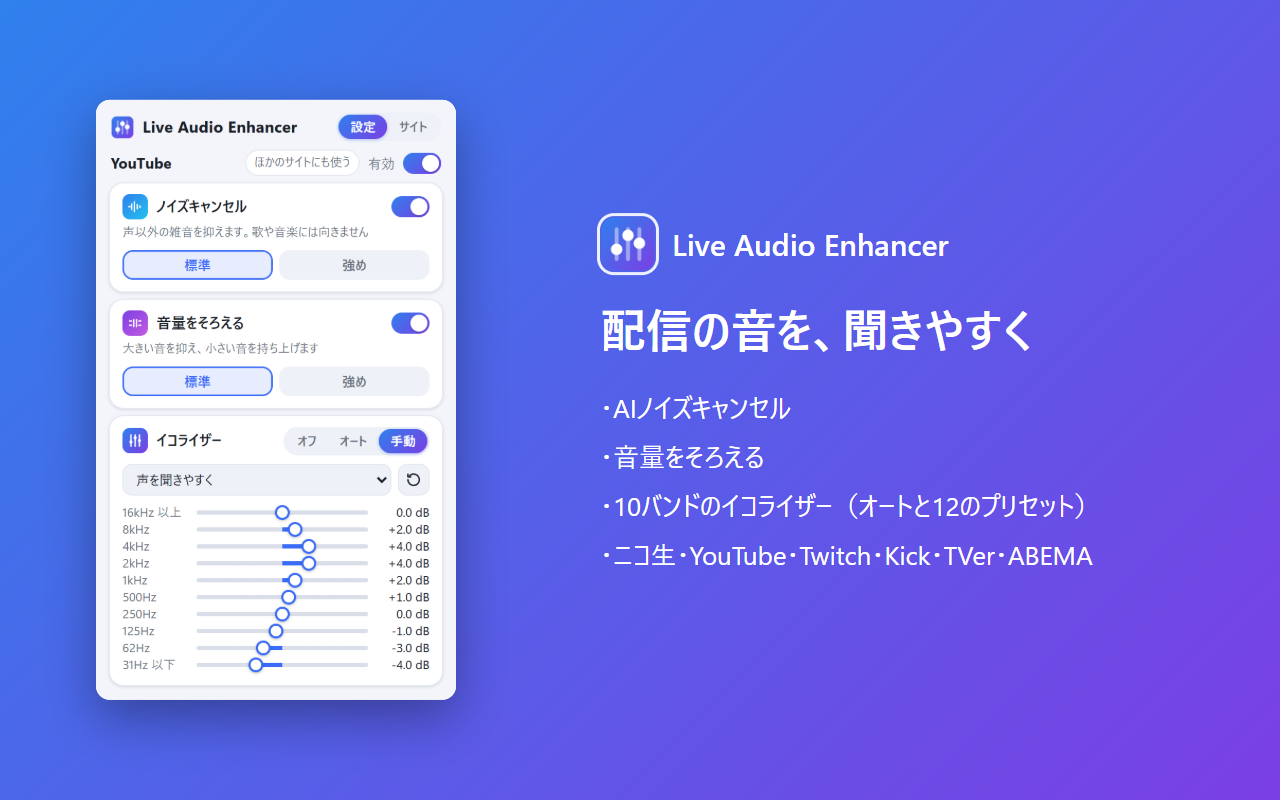
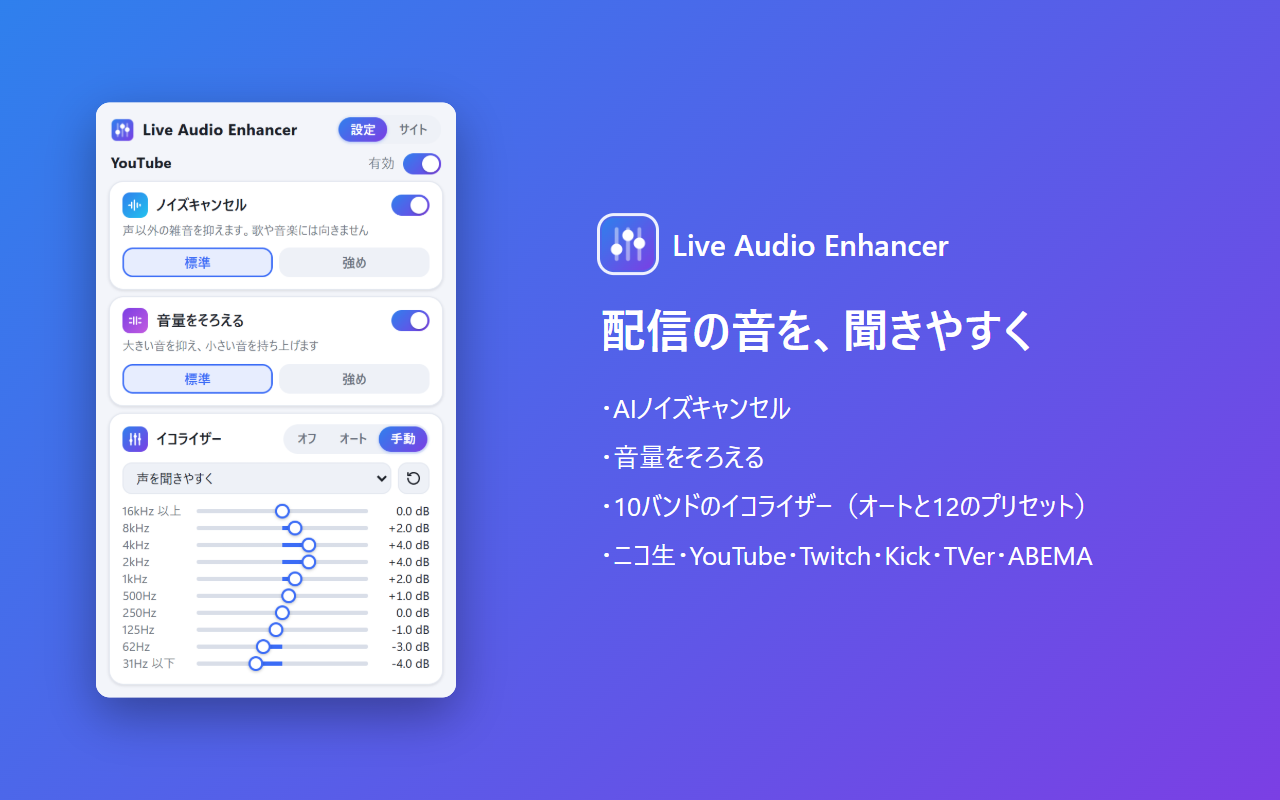
「ほかのサイトにも使う」を「（サイト名）の設定を全サイトに適用」にし、サイトのタブに移す（v0.27.0）
- 「ほかのサイトにも使う」は、これからの変更も連動するように読め、ほかのサイトの設定が上書きされることも分からなかった。
  「Twitch の設定を全サイトに適用」のように、どのサイトの設定を、どこまで広げるかが分かる名前にする
- たまにしか使わない操作なので、設定のタブの一番上から、サイトのタブの一覧の下に移す。「各サイトのオン・オフは変わりません」と添える
- ストアの文章、スクリーンショット、引き継ぎメモを合わせる

diff --git a/extension/popup/popup.js b/extension/popup/popup.js
@@ -17,7 +17,8 @@ const tabSites = document.getElementById('tabSites');
 const settingsView = document.getElementById('settingsView');
 const sitesView = document.getElementById('sitesView');
 const siteName = document.getElementById('siteName');
-const copyButton = document.getElementById('copyToAll');
+const applyAll = document.getElementById('applyAll');
+const copyButton = document.getElementById('applyToAll');
 const siteList = document.getElementById('siteList');
 const unsupportedNote = document.getElementById('unsupported');
 
@@ -32,7 +33,7 @@ let site = null;
 let state = null;
 let view = 'settings'; // 'settings'（このサイトの設定）/ 'sites'（サイトごとのオン・オフ）
 let siteSwitches = []; // サイトの一覧のスイッチ（Settings.SITES の順）
-let copyArmed = false; // 「ほかのサイトにも使う」を 1 回押して、確かめているあいだ
+let copyArmed = false; // 「〇〇の設定を全サイトに適用」を 1 回押して、確かめているあいだ
 let copyTimer = null; // 確かめる表示や、使ったことの表示を、元に戻すまでのタイマー
 let autoShown = null; // 今オートEQ の表示をしているか（オートと手動を切り替えたときだけ、スライダーの表示を切り替えるため）
 // 状態の問い合わせ（オートEQ の補正量）
@@ -64,7 +65,6 @@ async function currentSite() {
     return null;
   }
 }
-
 
 // 帯域ごとの行を作る。返す配列は帯域の順（低音から）で、画面には高音を上にして並べる
 function buildBands() {
@@ -149,6 +149,7 @@ function showView(next) {
   }
   tabSettings.disabled = !site;
   unsupportedNote.hidden = !!site;
+  applyAll.hidden = !site;
 }
 
 function showGains(controls, gains) {
@@ -254,8 +255,8 @@ function render(controls) {
   }
 }
 
-// 「ほかのサイトにも使う」を、確かめる前の表示に戻す
-function resetCopyButton(text = 'ほかのサイトにも使う') {
+// 「〇〇の設定を全サイトに適用」を、確かめる前の表示に戻す
+function resetCopyButton(text = `${Settings.SITES.find(({ id }) => id === site)?.label}の設定を全サイトに適用`) {
   clearTimeout(copyTimer);
   copyTimer = null;
   copyArmed = false;
@@ -269,6 +270,7 @@ function resetCopyButton(text = 'ほかのサイトにも使う') {
   buildPresets();
   const controls = buildBands();
   buildSiteList();
+  if (site) resetCopyButton();
   showView('settings');
   render(controls);
 
@@ -282,14 +284,14 @@ function resetCopyButton(text = 'ほかのサイトにも使う') {
   for (const input of siteSwitches) {
     input.addEventListener('change', () => change(() => { all[input.dataset.site].enabled = input.checked; }));
   }
-  // このサイトの設定を、ほかのすべてのサイトにも使う（各サイトのオン・オフは変えない）。
-  // ほかのサイトの設定を上書きするので、1 回目は確かめ、4 秒以内にもう一度押したときだけ使う
+  // このサイトの設定を、全サイトに適用する（一度だけ写す。各サイトのオン・オフは変えない）。
+  // ほかのサイトの設定を上書きするので、1 回目は確かめ、4 秒以内にもう一度押したときだけ写す
   copyButton.addEventListener('click', () => {
     if (!copyArmed) {
       resetCopyButton();
       copyArmed = true;
       copyButton.classList.add('confirm');
-      copyButton.textContent = 'もう一度押すと上書き';
+      copyButton.textContent = 'もう一度押すと上書きします';
       copyTimer = setTimeout(() => resetCopyButton(), 4000);
       return;
     }
@@ -297,7 +299,7 @@ function resetCopyButton(text = 'ほかのサイトにも使う') {
       if (id !== site) all[id] = { ...JSON.parse(JSON.stringify(state)), enabled: all[id].enabled };
     }
     save();
-    resetCopyButton('ほかのサイトにも使いました');
+    resetCopyButton('全サイトに適用しました');
     copyTimer = setTimeout(() => resetCopyButton(), 2000);
   });
   enabledInput.addEventListener('change', () => change(() => { state.enabled = enabledInput.checked; }));

diff --git a/extension/popup/popup.html b/extension/popup/popup.html
@@ -20,7 +20,6 @@
   <!-- 設定は、開いているタブのサイトごとに持つ。この行のスイッチは、このサイトでのオン・オフ（「サイト」の一覧と同じ値） -->
   <div class="site-bar">
     <span class="site-name" id="siteName"></span>
-    <button type="button" id="copyToAll" class="text-button" title="このサイトの設定を、ほかのすべてのサイトにも使う（オン・オフは変えない）">ほかのサイトにも使う</button>
     <label class="switch" title="オフにすると、このサイトでは元の音に戻ります">
       <span>有効</span>
       <input type="checkbox" role="switch" id="enabled">
@@ -103,6 +102,11 @@
       <h2>サイトごとのオン・オフ</h2>
       <p class="note">オフにしたサイトでは、音に何もしません</p>
       <div id="siteList" class="site-list"></div>
+      <!-- 開いているタブのサイトの設定を、全サイトに写す（一度だけ。オン・オフは写さない）。対応サイト以外のタブでは出さない -->
+      <div class="apply-all" id="applyAll">
+        <button type="button" id="applyToAll" class="text-button"></button>
+        <p class="note">各サイトのオン・オフは変わりません</p>
+      </div>
     </section>
     <p class="note unsupported" id="unsupported" hidden>このタブは対応サイトではないので、設定は変えられません。</p>
   </main>

diff --git a/extension/popup/popup.css b/extension/popup/popup.css
@@ -101,7 +101,7 @@ h1 {
   outline-offset: 1px;
 }
 
-/* 設定の一番上の行：サイト名、ほかのサイトにも使う、このサイトでのオン・オフ */
+/* 設定の一番上の行：サイト名と、このサイトでのオン・オフ */
 .site-bar {
   display: flex;
   align-items: center;
@@ -155,6 +155,19 @@ h1 {
   margin-left: 6px;
   color: var(--muted);
   font-size: 11.5px;
+}
+
+/* サイトの一覧の下：開いているタブのサイトの設定を、全サイトに適用する */
+.apply-all {
+  margin-top: 8px;
+  padding-top: 10px;
+  border-top: 1px solid var(--line);
+}
+
+.apply-all .text-button {
+  width: 100%;
+  padding: 5px 8px;
+  font-size: 12px;
 }
 
 .unsupported {

diff --git a/docs/handoff.md b/docs/handoff.md
@@ -1,6 +1,6 @@
 # Live Audio Enhancer（ライブ配信の音声エフェクト拡張）引き継ぎメモ
 
-最終更新：2026-11-16（拡張 v0.26.1）
+最終更新：2026-11-16（拡張 v0.27.0）
 
 拡張の名前は「Live Audio Enhancer」（v0.21.0から。それまでは「Audio FX」）。リポジトリのフォルダ名やログの`[audio-fx]`は、以前の名前のまま
 
@@ -74,6 +74,7 @@
 | 43 | イコライザーに「オフ」を足し、「オフ / オート / 手動」にする（オフのあいだも手動の設定は残す） | 完了 |
 | 44 | カスタムの値を、プリセットとは別に覚えておく（プリセットを選んでも消えない） | 完了 |
 | 45 | オートEQの状態（「今：〜」）を、利用者にも出す（分析中であることが分からなかったため） | 完了 |
+| 46 | 「ほかのサイトにも使う」を「（サイト名）の設定を全サイトに適用」にし、サイトのタブに移す | 完了 |
 
 ディレイ拡張との同時動作の確認（当初のステップ6）は、対象外になった。
 
@@ -91,8 +92,8 @@
 - Firefox：`about:debugging`の「このFirefox」→「一時的なアドオンを読み込む」で`extension/manifest.json`を選ぶ。Firefoxを再起動すると消える
 - 拡張アイコンのポップアップで、次の設定を変える
   - 設定はサイトごと（v0.24.0から。「サイトごとの設定」を参照）。ポップアップは「設定」と「サイト」のタブに分かれる
-    - 設定のタブ：開いているタブのサイト名、「ほかのサイトにも使う」ボタン、そのサイトのON/OFF（「有効」）と、各機能の設定
-    - サイトのタブ：6つのサイトのON/OFFの一覧。開いているタブのサイトには「このタブ」と添える
+    - 設定のタブ：開いているタブのサイト名、そのサイトのON/OFF（「有効」）と、各機能の設定
+    - サイトのタブ：6つのサイトのON/OFFの一覧。開いているタブのサイトには「このタブ」と添える。一覧の下に「（サイト名）の設定を全サイトに適用」ボタン
     - 対応サイト以外のタブで開いたときは、サイトのタブだけを出す（設定のタブは押せない）
   - サイトのON/OFF。OFFのあいだは、ほかの欄は薄く表示され、操作できない（OFFのあいだは変えても音が変わらないため）
   - ノイズキャンセルは「スイッチでオン・オフ＋強さを標準 / 強めから選ぶ」形（v0.25.0から。それまでは「オフ / オート / オン」の切り替えだった）
@@ -894,7 +895,8 @@ Chromeウェブストアの音声系の拡張を調べた。主な38件は、パ
 - **サイトのON/OFF**：各サイトの設定の`enabled`。設定のタブの「有効」と、サイトのタブの一覧は、同じ値を表示・変更する。OFFのサイトでは動画につながず、つないだ後にOFFにしたときは素通しにする（以前の全体のOFFと同じ）
 - **ポップアップが開いているタブのサイトを知る方法**：タブの中のcontent scriptに`audio-fx:site`を問い合わせる。権限を増やさずに済む。返事がなければ対応サイト以外とみなし、サイトのタブだけを出す
   - 検証ツールとスクリーンショットのツールは、ポップアップの画面をタブで開くので、`popup.html?site=<id>`でサイトを指定する
-- **ほかのサイトにも使う**：今のサイトの設定を、ほかの5つのサイトにコピーする。各サイトのON/OFFはコピーしない。ほかのサイトの設定を上書きするので、1回目は「もう一度押すと上書き」と出して確かめ、4秒以内にもう一度押したときだけコピーする（拡張のポップアップでは`confirm()`などのダイアログが使えないことがあるので、ボタンで確かめる）
+- **（サイト名）の設定を全サイトに適用**（v0.27.0から。それまでは設定のタブの一番上の「ほかのサイトにも使う」）：今のサイトの設定を、ほかの5つのサイトに一度だけ写す。各サイトのON/OFFは写さない（ボタンの下に「各サイトのオン・オフは変わりません」と添える）。ほかのサイトの設定を上書きするので、1回目は「もう一度押すと上書きします」と出して確かめ、4秒以内にもう一度押したときだけ写す
+  - 名前と場所を変えた理由（2026-11-16）：「ほかのサイトにも使う」は、これからの変更も連動するように読め、ほかのサイトの設定が上書きされることも分からなかった。たまにしか使わない操作なので、毎回目に入る設定のタブの一番上から、サイトのタブに移した（拡張のポップアップでは`confirm()`などのダイアログが使えないことがあるので、ボタンで確かめる）
 - YouTubeはライブと通常の動画を分けられないので、同じ「YouTube」の設定になる
 
 ## ポップアップのデザイン

diff --git a/docs/amo/listing.md b/docs/amo/listing.md
@@ -56,7 +56,7 @@ Live Audio Enhancer は、配信や動画の音を、その場で（リアルタ
 ■ 使い方
 1. 対応サイトで動画を再生します。
 2. ツールバーの Live Audio Enhancer のボタンを押して、使いたい機能を選びます。
-設定はサイトごとに保存されます。「ほかのサイトにも使う」で、ほかのサイトにも同じ設定を使えます。「サイト」のタブで、サイトごとにオン・オフできます。オフにすると、元の音に戻ります。
+設定はサイトごとに保存されます。「サイト」のタブの「（サイト名）の設定を全サイトに適用」で、ほかのサイトにも同じ設定を使えます。「サイト」のタブで、サイトごとにオン・オフできます。オフにすると、元の音に戻ります。
 
 ■ ご注意
 ・ノイズキャンセルの「強め」は、パソコンへの負荷が高めで、音がわずかに遅れます。
@@ -90,7 +90,7 @@ niconico Live, YouTube, Twitch, Kick, TVer, ABEMA
 How to use
 1. Play a video on a supported site.
 2. Click the Live Audio Enhancer button in the toolbar and choose the features you want.
-Settings are saved per site. Use "ほかのサイトにも使う" (use on other sites) to copy them to all sites. The "サイト" (Sites) tab turns each site on or off; when a site is off, you hear the original sound.
+Settings are saved per site. In the "サイト" (Sites) tab, "…の設定を全サイトに適用" (apply to all sites) copies the current site's settings to all sites. The "サイト" (Sites) tab turns each site on or off; when a site is off, you hear the original sound.
 
 Notes
 - The Strong noise suppression uses more CPU and adds a short delay.

diff --git a/docs/cws/listing.md b/docs/cws/listing.md
@@ -51,7 +51,7 @@ Live Audio Enhancer は、配信や動画の音を、その場で（リアルタ
 ■ 使い方
 1. 対応サイトで動画を再生します。
 2. ツールバーの拡張機能のボタン（パズルのアイコン）から Live Audio Enhancer を開き、使いたい機能を選びます。ピン留めしておくと、すぐに開けます。
-設定はサイトごとに保存されます。「ほかのサイトにも使う」で、ほかのサイトにも同じ設定を使えます。「サイト」のタブで、サイトごとにオン・オフできます。オフにすると、元の音に戻ります。
+設定はサイトごとに保存されます。「サイト」のタブの「（サイト名）の設定を全サイトに適用」で、ほかのサイトにも同じ設定を使えます。「サイト」のタブで、サイトごとにオン・オフできます。オフにすると、元の音に戻ります。
 
 ■ ご注意
 ・ノイズキャンセルの「強め」は、パソコンへの負荷が高めで、音がわずかに遅れます。
